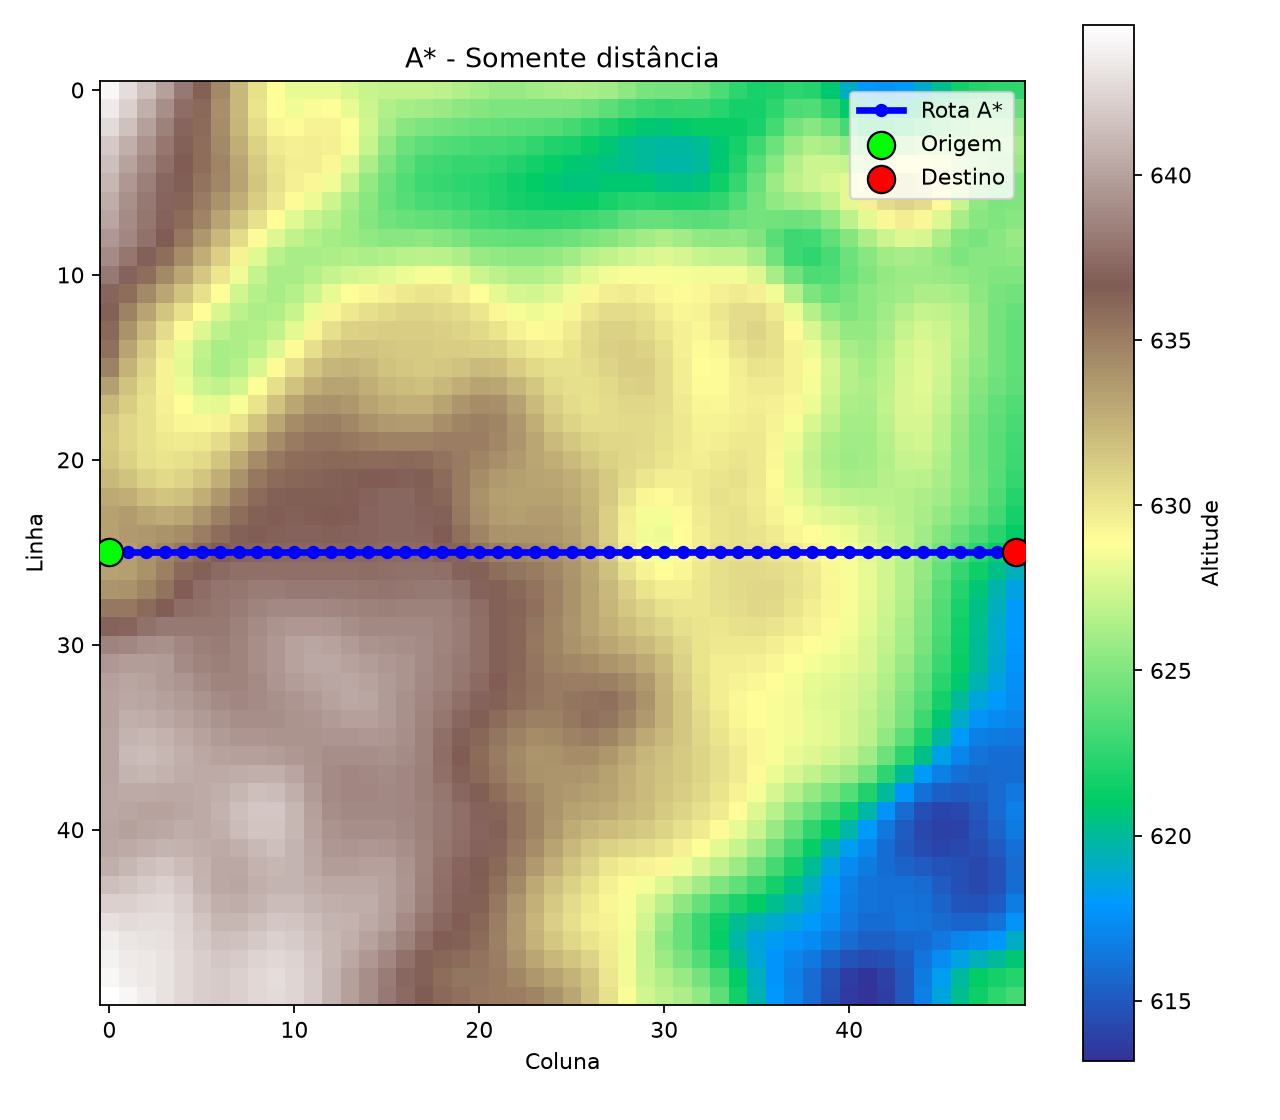
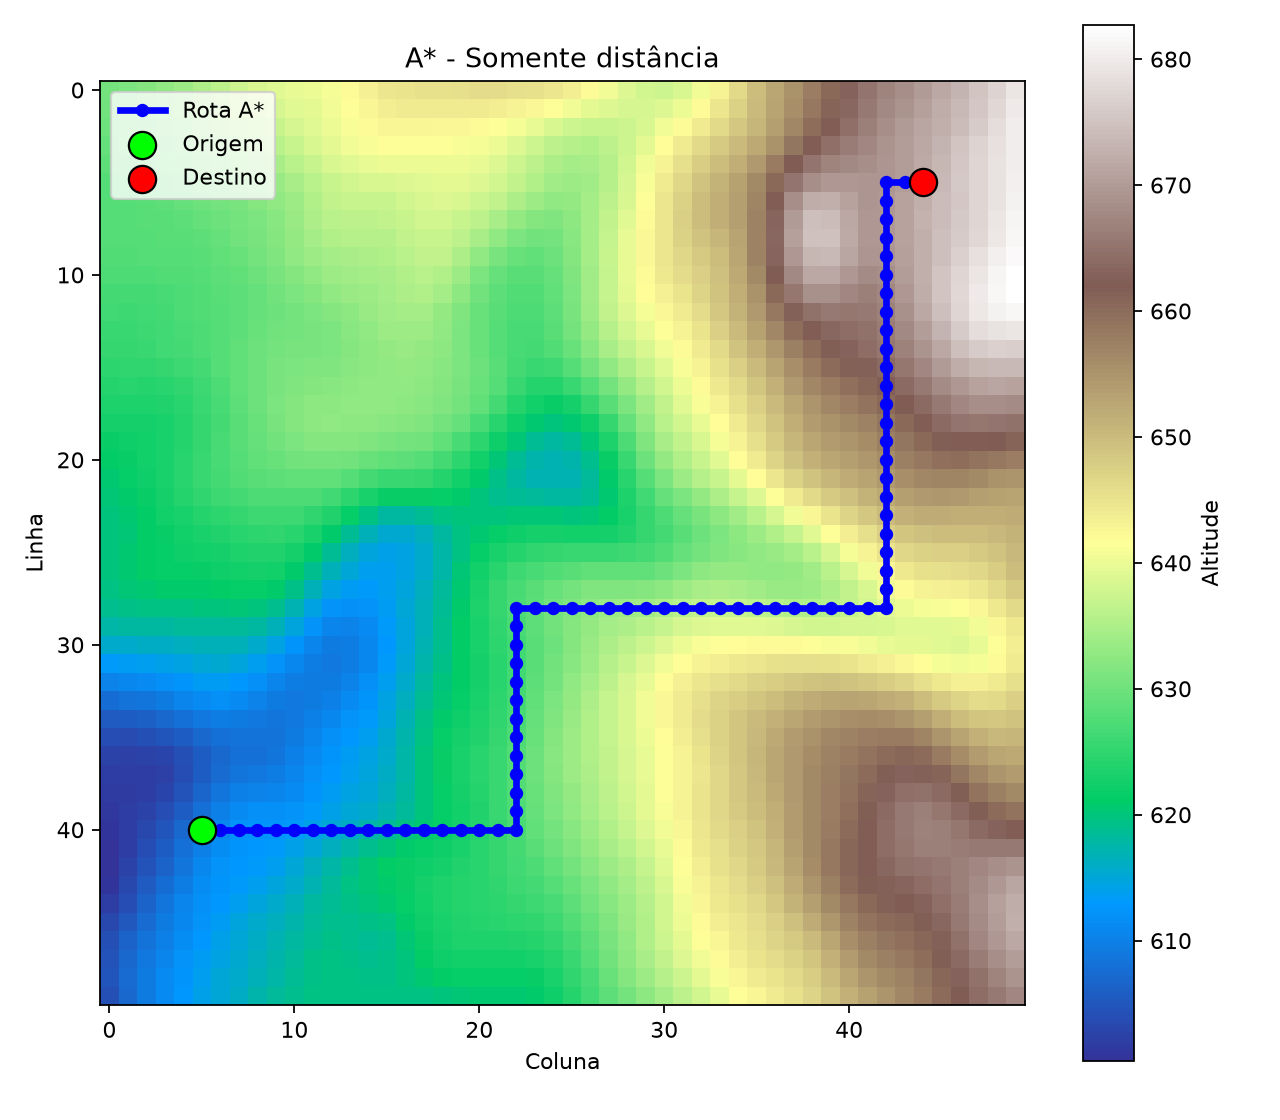
Feat: cordenadas dentro da imagem

diff --git a/src/main.py b/src/main.py
@@ -13,6 +13,38 @@ from src.terrain import create_example_terrain, load_topodata
 from src.visualization import save_path_figure
 
 
+def resolve_endpoints(
+    terrain_shape: tuple[int, int],
+    start_row: int | None,
+    start_col: int | None,
+    goal_row: int | None,
+    goal_col: int | None,
+) -> tuple[tuple[int, int], tuple[int, int]]:
+    """Valida pontos informados ou usa o centro das bordas como padrão."""
+    values = (start_row, start_col, goal_row, goal_col)
+    if not any(value is not None for value in values):
+        middle_row = terrain_shape[0] // 2
+        return (middle_row, 0), (middle_row, terrain_shape[1] - 1)
+
+    if not all(value is not None for value in values):
+        raise ValueError(
+            "Informe juntos: --start-row, --start-col, --goal-row e --goal-col."
+        )
+
+    start = (start_row, start_col)
+    goal = (goal_row, goal_col)
+    rows, columns = terrain_shape
+
+    for name, (row, column) in (("origem", start), ("destino", goal)):
+        if not (0 <= row < rows and 0 <= column < columns):
+            raise ValueError(
+                f"A {name} {(row, column)} está fora do grid "
+                f"{rows} x {columns}."
+            )
+
+    return start, goal
+
+
 def show_result(name: str, result: PathResult) -> None:
     print()
     print("=" * 60)
@@ -49,6 +81,10 @@ def parse_args() -> argparse.Namespace:
         "--area-m", type=float, default=None,
         help="Lado, em metros, da área quadrada recortada (ex.: 1500).",
     )
+    parser.add_argument("--start-row", type=int, help="Linha da origem no grid.")
+    parser.add_argument("--start-col", type=int, help="Coluna da origem no grid.")
+    parser.add_argument("--goal-row", type=int, help="Linha do destino no grid.")
+    parser.add_argument("--goal-col", type=int, help="Coluna do destino no grid.")
     return parser.parse_args()
 
 
@@ -102,9 +138,15 @@ def main() -> None:
         cell_size_x_m = 1.0
         cell_size_y_m = 1.0
 
-    middle_row = terrain.shape[0] // 2
-    start = (middle_row, 0)
-    goal = (middle_row, terrain.shape[1] - 1)
+    start, goal = resolve_endpoints(
+        terrain.shape,
+        args.start_row,
+        args.start_col,
+        args.goal_row,
+        args.goal_col,
+    )
+    print(f"Origem no grid: {start}")
+    print(f"Destino no grid: {goal}")
 
     started = perf_counter()
     result_without_climb_penalty = astar(

diff --git a/tests/test_main.py b/tests/test_main.py
@@ -1,0 +1,27 @@
+import pytest
+
+from src.main import resolve_endpoints
+
+
+def test_resolve_endpoints_uses_default_edges():
+    start, goal = resolve_endpoints((50, 50), None, None, None, None)
+
+    assert start == (25, 0)
+    assert goal == (25, 49)
+
+
+def test_resolve_endpoints_accepts_custom_points():
+    start, goal = resolve_endpoints((50, 50), 4, 6, 42, 45)
+
+    assert start == (4, 6)
+    assert goal == (42, 45)
+
+
+def test_resolve_endpoints_requires_all_coordinates():
+    with pytest.raises(ValueError, match="Informe juntos"):
+        resolve_endpoints((50, 50), 4, 6, None, None)
+
+
+def test_resolve_endpoints_rejects_point_outside_grid():
+    with pytest.raises(ValueError, match="fora do grid"):
+        resolve_endpoints((50, 50), 4, 6, 50, 45)
